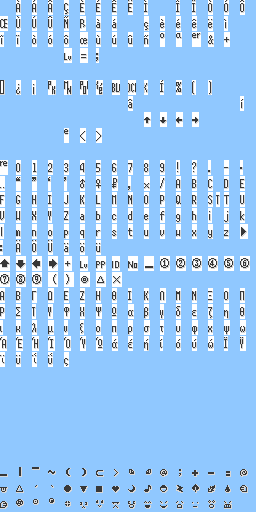
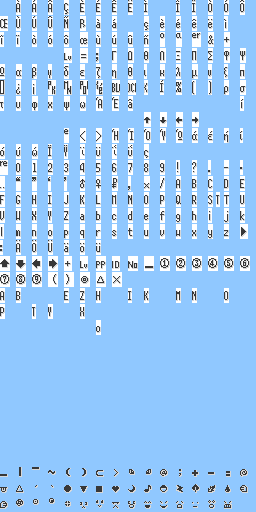
Greek glyphs now only take one byte
Rearranged the fonts and charmap so that characters only take up one byte in memory instead of two, as it was previously. This also reuses Latin glyphs for common ones with Greek.

diff --git a/src/fonts.c b/src/fonts.c
@@ -5,13 +5,13 @@ ALIGNED(4) const u8 gFontSmallNarrowLatinGlyphWidths[] = {
     3,  5,  5,  5,  5,  5,  5,  5,  5,  4,  3,  4,  4,  5,  5,  5,
     5,  5,  5,  5,  5,  5,  5,  5,  3,  4,  5,  5,  5,  5,  4,  3,
     4,  4,  5,  5,  5,  5,  5,  5,  5,  5,  5,  5,  8,  5,  6,  3,
-    3,  3,  3,  3,  8,  0,  3,  3,  3,  3,  3,  3,  3,  3,  3,  3,
-    3,  3,  3,  3,  3,  3,  3,  3,  3,  3,  3,  3,  3,  3,  3,  3,
-    5,  5,  3,  8,  8,  8,  8,  8,  8,  8,  4,  5,  4,  4,  3,  3,
-    3,  3,  3,  3,  3,  3,  3,  3,  5,  3,  3,  3,  3,  3,  3,  4,
+    3,  3,  3,  3,  8,  0,  3,  5,  5,  5,  5,  5,  5,  5,  5,  5,
+    5,  6,  5,  5,  5,  5,  5,  5,  5,  3,  5,  5,  6,  5,  5,  3,
+    5,  5,  3,  8,  8,  8,  8,  8,  8,  8,  4,  5,  4,  4,  5,  6,
+    4,  5,  3,  3,  6,  6,  7,  7,  5,  3,  3,  3,  3,  3,  3,  4,
     3,  3,  3,  3,  3,  3,  3,  5,  3,  8,  8,  8,  8,  1,  2,  3,
-    4,  5,  6,  7,  5,  5,  5,  3,  3,  3,  3,  3,  3,  3,  3,  3,
-    3,  3,  3,  3,  3,  3,  3,  3,  3,  3,  3,  3,  3,  3,  3,  3,
+    4,  5,  6,  7,  5,  5,  5,  7,  6,  7,  7,  6,  5,  5,  5,  3,
+    5,  5,  6,  4,  4,  5,  5,  5,  5,  5,  3,  3,  3,  3,  3,  3,
     7,  5,  5,  5,  5,  5,  5,  5,  5,  5,  5,  4,  5,  3,  5,  5,
     5,  5,  5,  3,  3,  5,  5,  5,  3,  5,  5,  5,  5,  5,  5,  5,
     5,  5,  5,  4,  5,  5,  5,  5,  5,  5,  5,  5,  5,  5,  4,  5,
@@ -41,13 +41,13 @@ ALIGNED(4) const u8 gFontSmallLatinGlyphWidths[] = {
     3,  5,  5,  5,  5,  5,  5,  5,  5,  4,  3,  4,  4,  5,  5,  5,
     5,  5,  5,  5,  5,  5,  5,  5,  3,  5,  5,  5,  5,  5,  4,  3,
     4,  4,  5,  5,  5,  6,  5,  5,  5,  5,  5,  5,  8,  7,  8,  3,
-    3,  3,  3,  3,  8,  8,  7,  3,  3,  3,  3,  3,  3,  3,  3,  3,
-    3,  3,  3,  3,  3,  3,  3,  3,  3,  3,  3,  3,  3,  3,  3,  3,
-    5,  5,  5,  8,  8,  8,  8,  8,  8,  8,  4,  7,  5,  5,  3,  3,
-    3,  3,  3,  3,  3,  3,  3,  3,  5,  3,  3,  3,  3,  3,  3,  4,
+    3,  3,  3,  3,  8,  8,  7,  5,  5,  5,  5,  5,  5,  5,  5,  5,
+    5,  6,  5,  5,  5,  5,  5,  5,  5,  3,  5,  5,  6,  5,  5,  3,
+    5,  5,  5,  8,  8,  8,  8,  8,  8,  8,  4,  7,  5,  5,  5,  6,
+    4,  5,  3,  3,  6,  6,  7,  7,  5,  3,  3,  3,  3,  3,  3,  4,
     3,  3,  3,  3,  3,  3,  3,  5,  3,  8,  8,  8,  8,  1,  2,  3,
-    4,  5,  6,  7,  5,  7,  7,  3,  3,  3,  3,  3,  3,  3,  3,  3,
-    3,  3,  3,  3,  3,  3,  3,  3,  3,  3,  3,  3,  3,  3,  3,  3,
+    4,  5,  6,  7,  5,  7,  7,  7,  6,  7,  7,  6,  5,  5,  5,  3,
+    5,  5,  6,  4,  4,  5,  5,  5,  5,  5,  3,  3,  3,  3,  3,  3,
     8,  5,  5,  5,  5,  5,  5,  5,  5,  5,  5,  4,  5,  5,  5,  5,
     5,  5,  5,  5,  5,  5,  5,  8,  5,  8,  5,  5,  5,  5,  5,  5,
     5,  5,  5,  4,  5,  5,  5,  5,  5,  5,  5,  5,  5,  5,  4,  5,
@@ -77,13 +77,13 @@ ALIGNED(4) const u8 gFontNarrowLatinGlyphWidths[] = {
     3,  5,  5,  5,  5,  5,  5,  5,  5,  4,  3,  4,  4,  5,  5,  5,
     8,  5,  5,  5,  5,  6,  5,  5,  3,  5,  5,  5,  5,  5,  4,  3,
     4,  4,  5,  5,  5,  8,  5,  5,  5,  5,  5,  6,  9,  6,  6,  3,
-    3,  3,  3,  3,  8,  8,  3,  3,  3,  3,  3,  3,  3,  3,  3,  3,
-    3,  3,  3,  3,  3,  3,  3,  3,  3,  3,  3,  3,  3,  3,  3,  3,
-    5,  5,  4,  8,  8,  8,  7,  8,  8,  4,  4,  6,  4,  4,  3,  3,
-    3,  3,  3,  3,  3,  3,  3,  3,  5,  3,  3,  3,  3,  3,  3,  4,
+    3,  3,  3,  3,  8,  8,  3,  5,  5,  5,  5,  5,  5,  5,  5,  5,
+    5,  6,  5,  5,  5,  5,  5,  5,  5,  3,  5,  5,  6,  5,  5,  3,
+    5,  5,  4,  8,  8,  8,  7,  8,  8,  4,  4,  6,  4,  4,  5,  6,
+    4,  5,  3,  3,  6,  6,  7,  7,  5,  3,  3,  3,  3,  3,  3,  4,
     3,  3,  3,  3,  3,  3,  3,  5,  3,  7,  7,  7,  7,  1,  2,  3,
-    4,  5,  6,  7,  5,  6,  6,  3,  3,  3,  3,  3,  3,  3,  3,  3,
-    3,  3,  3,  3,  3,  3,  3,  3,  3,  3,  3,  3,  3,  3,  3,  3,
+    4,  5,  6,  7,  5,  6,  6,  7,  6,  7,  7,  6,  5,  5,  5,  3,
+    5,  5,  6,  4,  4,  5,  5,  5,  5,  5,  3,  3,  3,  3,  3,  3,
     8,  5,  5,  5,  5,  5,  5,  5,  5,  5,  5,  4,  5,  3,  5,  3,
     5,  5,  5,  3,  3,  5,  5,  6,  3,  6,  6,  5,  5,  5,  5,  5,
     5,  5,  5,  4,  5,  5,  5,  5,  5,  5,  5,  5,  5,  5,  5,  5,
@@ -113,13 +113,13 @@ ALIGNED(4) const u8 gFontShortLatinGlyphWidths[] = {
     3,  6,  6,  6,  6,  6,  6,  6,  6,  6,  3,  6,  6,  6,  6,  6,
     8,  6,  6,  6,  6,  6,  6,  6,  3,  6,  6,  6,  6,  6,  6,  3,
     6,  6,  6,  6,  6,  8,  6,  6,  6,  6,  6,  6,  9,  8,  8,  3,
-    3,  3,  3,  3, 10,  8,  5,  3,  3,  3,  3,  3,  3,  3,  3,  3,
-    3,  3,  3,  3,  3,  3,  3,  3,  3,  3,  3,  3,  3,  3,  3,  3,
-    6,  6,  6,  8,  8,  8,  8,  8,  8,  4,  6,  8,  5,  5,  3,  3,
-    3,  3,  3,  3,  3,  3,  3,  3,  6,  3,  3,  3,  3,  3,  3,  6,
+    3,  3,  3,  3, 10,  8,  5,  6,  6,  6,  6,  6,  6,  6,  8,  8,
+    6,  7,  6,  6,  6,  6,  6,  6,  6,  4,  6,  6,  7,  6,  6,  6,
+    6,  6,  6,  8,  8,  8,  8,  8,  8,  4,  6,  8,  5,  5,  6,  6,
+    6,  6,  6,  6,  6,  8,  8,  8,  6,  3,  3,  3,  3,  3,  3,  6,
     3,  3,  3,  3,  3,  3,  3,  6,  3, 12, 12, 12, 12,  1,  2,  3,
-    4,  5,  6,  7,  8,  8,  8,  3,  3,  3,  3,  3,  3,  3,  3,  3,
-    3,  3,  3,  3,  3,  3,  3,  3,  3,  3,  3,  3,  3,  3,  3,  3,
+    4,  5,  6,  7,  8,  8,  8,  8,  8,  8,  8,  8,  7,  6,  6,  4,
+    6,  6,  8,  6,  6,  6,  6,  6,  6,  6,  3,  3,  3,  3,  3,  3,
     8,  6,  6,  6,  6,  6,  6,  6,  6,  6,  6,  6,  6,  5,  6,  5,
     6,  6,  6,  3,  3,  6,  6,  8,  5,  9,  6,  6,  6,  6,  6,  6,
     6,  6,  6,  6,  6,  6,  6,  6,  6,  6,  6,  6,  6,  6,  6,  6,
@@ -149,13 +149,13 @@ ALIGNED(4) const u8 gFontNormalLatinGlyphWidths[] = {
     3,  6,  6,  6,  6,  6,  6,  6,  6,  6,  3,  6,  6,  6,  6,  6,
     8,  6,  6,  6,  6,  6,  6,  6,  3,  6,  6,  6,  6,  6,  6,  3,
     6,  6,  6,  6,  6,  8,  6,  6,  6,  6,  6,  6,  9,  7,  6,  3,
-    3,  3,  3,  3, 10,  8,  3,  3,  3,  3,  3,  3,  3,  3,  3,  3,
-    3,  3,  3,  3,  3,  3,  3,  3,  3,  3,  3,  3,  3,  3,  3,  3,
-    6,  6,  4,  8,  8,  8,  7,  8,  8,  4,  6,  6,  4,  4,  3,  3,
-    3,  3,  3,  3,  3,  3,  3,  3,  6,  3,  3,  3,  3,  3,  3,  6,
+    3,  3,  3,  3, 10,  8,  6,  6,  6,  6,  6,  6,  6,  6,  8,  8,
+    6,  7,  6,  6,  6,  6,  6,  6,  6,  4,  6,  6,  7,  6,  6,  6,
+    6,  6,  4,  8,  8,  8,  7,  8,  8,  4,  6,  6,  4,  4,  6,  7,
+    6,  6,  6,  6,  6,  8,  8,  8,  6,  3,  3,  3,  3,  3,  3,  6,
     3,  3,  3,  3,  3,  3,  3,  6,  3,  7,  7,  7,  7,  1,  2,  3,
-    4,  5,  6,  7,  6,  6,  6,  3,  3,  3,  3,  3,  3,  3,  3,  3,
-    3,  3,  3,  3,  3,  3,  3,  3,  3,  3,  3,  3,  3,  3,  3,  3,
+    4,  5,  6,  7,  6,  6,  6,  8,  8,  8,  8,  8,  7,  6,  6,  4,
+    6,  6,  8,  6,  6,  6,  6,  6,  6,  6,  3,  3,  3,  3,  3,  3,
     8,  6,  6,  6,  6,  6,  6,  6,  6,  6,  6,  4,  6,  3,  6,  3,
     6,  6,  6,  3,  3,  6,  6,  6,  3,  7,  6,  6,  6,  6,  6,  6,
     6,  6,  6,  6,  6,  6,  6,  6,  6,  6,  6,  6,  6,  6,  6,  6,
